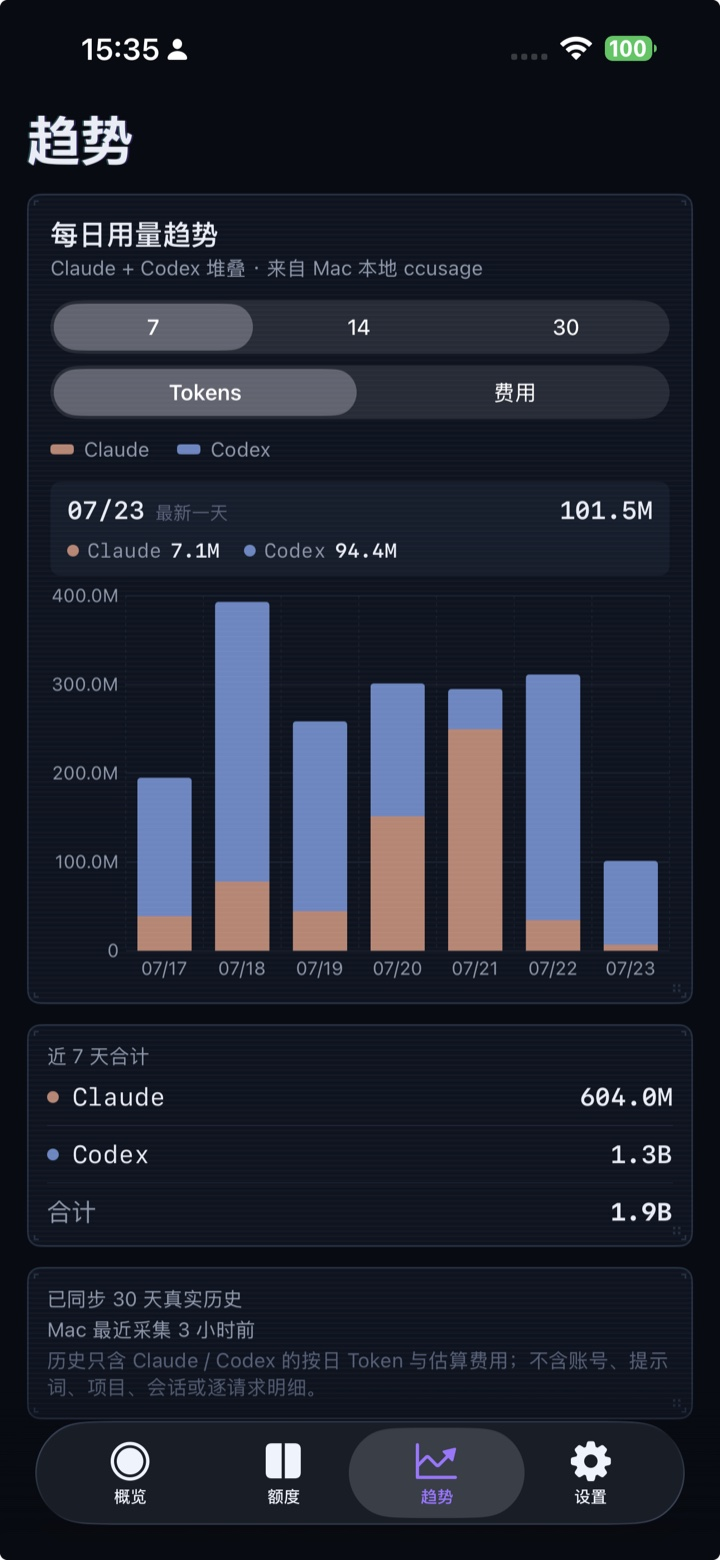
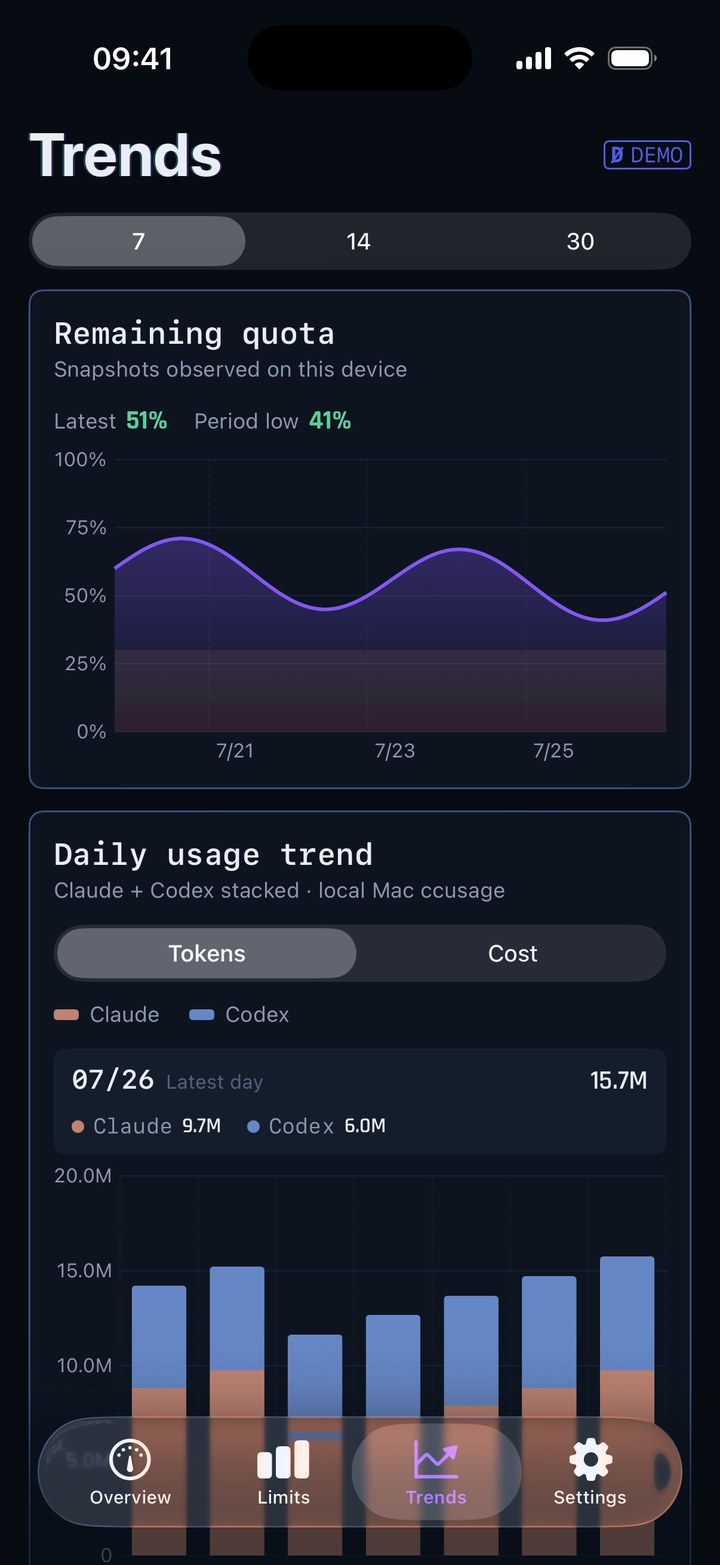
docs(site): refresh localized product screenshots

diff --git a/site/index.html b/site/index.html
@@ -783,7 +783,7 @@ footer.site .disclaimer{
   <section id="screens">
     <p class="eyebrow" data-num="01">Real UI</p>
     <h2 data-i18n="s-h2">Three screens, one pixel language</h2>
-    <p class="lede" data-i18n="s-lede">You've met the menu bar popover above — everything below is a <strong style="color:var(--text)">live screenshot of the latest build</strong>: the desktop Dashboard, the iPhone app and Home Screen widgets.</p>
+    <p class="lede" data-i18n="s-lede">You've met the menu bar popover above — everything below is a <strong style="color:var(--text)">live screenshot of the latest build</strong>: the desktop Dashboard, the iPhone app and Home Screen widgets. The iPhone shots run the app's built-in demo scenario, so they carry its DEMO mark.</p>
     <div class="shot-grid">
       <figure class="shot ticked lift">
         <img src="assets/dashboard.jpg" width="1600" height="1065" alt="TokenRemain Dashboard overview: today's usage and cost donut, official quota bars (Claude coral / Codex blue), trending and risk hints" loading="lazy"
@@ -792,16 +792,20 @@ footer.site .disclaimer{
       </figure>
       <div class="shot-row3">
         <figure class="shot phone ticked lift">
-          <img src="assets/phone-overview.jpg" width="720" height="1560" alt="TokenRemain iPhone overview: risk card synced from Mac, Claude 98% and Codex 40% bars, today's usage split and 30-day stats" loading="lazy">
+          <img src="assets/phone-overview.jpg" width="720" height="1565" alt="TokenRemain iPhone overview: quota risk card at 46% lowest remaining, Codex and Claude bars, today's usage split and multi-day stats" loading="lazy"
+               data-shot-en="assets/phone-overview.jpg" data-shot-zh="assets/phone-overview-zh.jpg">
           <figcaption><span class="tag" data-i18n="cap-pov-t">iPhone · Overview</span><span class="cap" data-i18n="cap-pov-c">Cross-device sync with your Mac — an allowlisted quota snapshot is encrypted before it enters your private iCloud database.</span></figcaption>
         </figure>
         <figure class="shot phone ticked lift">
-          <img src="assets/phone-trends.jpg" width="720" height="1560" alt="TokenRemain iPhone trends: daily stacked bars for Claude and Codex, 7/14/30-day ranges, tokens or cost, 1.9B tokens in the last 7 days" loading="lazy">
-          <figcaption><span class="tag" data-i18n="cap-ptr-t">iPhone · Trends</span><span class="cap" data-i18n="cap-ptr-c">30 days of real history synced: daily stacks, 7 / 14 / 30-day ranges, tokens or cost.</span></figcaption>
+          <img src="assets/phone-trends.jpg" width="720" height="1565" alt="TokenRemain iPhone trends: remaining-quota curve over time plus daily stacked bars for Claude and Codex, 7/14/30-day ranges, tokens or cost" loading="lazy"
+               data-shot-en="assets/phone-trends.jpg" data-shot-zh="assets/phone-trends-zh.jpg">
+          <figcaption><span class="tag" data-i18n="cap-ptr-t">iPhone · Trends</span><span class="cap" data-i18n="cap-ptr-c">A remaining-quota curve over the synced history, plus daily stacks: 7 / 14 / 30-day ranges, tokens or cost.</span></figcaption>
         </figure>
         <figure class="shot widgets ticked lift">
-          <img src="assets/widget-m.png" width="1118" height="522" alt="TokenRemain medium Home Screen widget: lowest remaining 40% in pixel LED, robot mascot, Claude and Codex bars, reset countdown" loading="lazy">
-          <img src="assets/widget-s.png" width="522" height="503" alt="TokenRemain small Home Screen widget: lowest remaining 40%, per-provider bars and reset countdown" loading="lazy">
+          <img src="assets/widget-m.png" width="1144" height="562" alt="TokenRemain medium Home Screen widget: lowest remaining 46%, LOW risk badge, robot mascot, Codex and Claude bars, reset countdown" loading="lazy"
+               data-shot-en="assets/widget-m.png" data-shot-zh="assets/widget-m-zh.png">
+          <img src="assets/widget-s.png" width="562" height="562" alt="TokenRemain small Home Screen widget: lowest remaining 46%, per-provider bars and reset countdown" loading="lazy"
+               data-shot-en="assets/widget-s.png" data-shot-zh="assets/widget-s-zh.png">
           <figcaption><span class="tag" data-i18n="cap-wg-t">Widgets</span><span class="cap" data-i18n="cap-wg-c">Medium and small Home Screen widgets: lowest remaining, per-provider bars and a reset countdown at a glance.</span></figcaption>
         </figure>
       </div>
@@ -1176,10 +1180,10 @@ var ZH={
   "h-hint":"使用 Developer ID 签名并通过 Apple 公证。",
   "chip-grok":"Grok 周池",
   "s-h2":"三块屏幕，同一套像素语言",
-  "s-lede":"菜单栏弹窗在上方已经见过——下面全部是<strong style=\"color:var(--text)\">正在运行的最新版实机截图</strong>：桌面 Dashboard、iPhone 版与桌面小组件。",
+  "s-lede":"菜单栏弹窗在上方已经见过——下面全部是<strong style=\"color:var(--text)\">正在运行的最新版实机截图</strong>：桌面 Dashboard、iPhone 版与桌面小组件。iPhone 部分跑的是 App 内置的演示场景，所以画面里带着它的 DEMO 标记。",
   "cap-dash-t":"Dashboard · 实机","cap-dash-c":"真实本地用量：今日 202.16M tokens、$189.11 估算成本按服务商拆分；右侧官方额度实时进度与风险提示。",
   "cap-pov-t":"iPhone · 概览","cap-pov-c":"与 Mac 跨设备同步：白名单额度快照在进入你的 iCloud 私有数据库前即完成加密。",
-  "cap-ptr-t":"iPhone · 趋势","cap-ptr-c":"已同步 30 天真实历史：每日堆叠、7 / 14 / 30 天与 Tokens / 费用双口径。",
+  "cap-ptr-t":"iPhone · 趋势","cap-ptr-c":"同步历史上的剩余额度曲线，加每日堆叠：7 / 14 / 30 天与 Tokens / 费用双口径。",
   "cap-wg-t":"Widgets · 小组件","cap-wg-c":"中 / 小两档桌面小组件：最低剩余、双 provider 段条与重置倒计时，一眼扫完。",
   "pv-h2":"支持的服务",
   "pv-lede":"绝大多数服务<strong style=\"color:var(--text)\">登录即自动接入</strong>：只读各工具已经存在本机的凭证，不额外登录、不代刷。每张卡片注明数据从哪来。",
